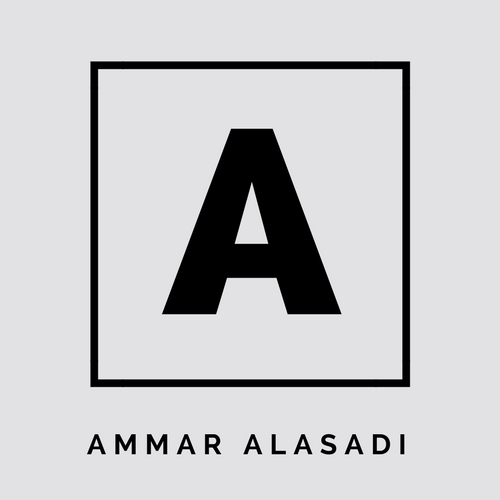
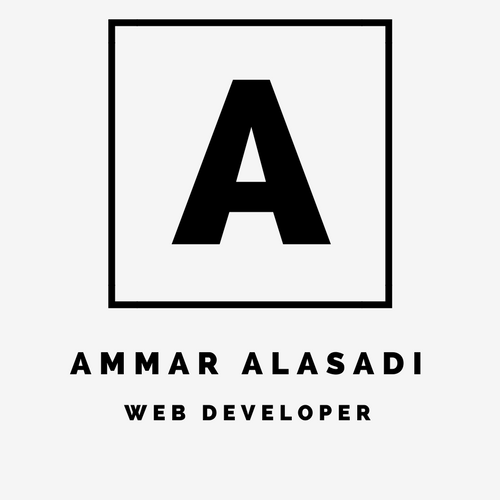
changed layout

Changed region(s): [[0.12, 0.03, 0.87, 0.78], [0.18, 0.81, 0.75, 0.93], [0.48, 0.87, 0.81, 0.93]]

diff --git a/index.html b/index.html
@@ -4,34 +4,28 @@
 <head>
 	<title>Ammar</title>
 	<link rel="stylesheet" type="text/css" href="style/style.css">
-	<link href="https://fonts.googleapis.com/css?family=Raleway" rel="stylesheet">
+	<link href="https://fonts.googleapis.com/css?family=Josefin+Slab|Open+Sans+Condensed:300|Oswald|Source+Code+Pro:300" rel="stylesheet">
 	<link rel="icon" href="ammar.png">
 </head>
 
 <body>
 	<main>
 		<header class="logo-info">
-
 			<img class='logo' src="assets/ammar.png">
-			<p class="full">Full-Stack Web Developer</p>
-
-
-
 		</header>
 
 		<hr>
 
-		<div class="about">
-			<h1 class="heading">About Me</h1>
+		<div class="about" "yellow">
+			<h1 class="heading yellow">About Me</h1>
 			<p class="sub">
 				I am a web developer with a background in languages and communication. My goal as a developer is to find creative solutions and designs. I value communication and planning to guide my progress in development. I am a team player with a love of sharing
 				experience and learning.
 			</p>
 		</div>
-
 		<div class="projects-heading">
-			<h1 class="heading">My Projects</h1>
-			<p class="sub">Check out some of my cool projects.</p>
+			<h1 class="heading yellow">My Projects</h1>
+			<p class="sub">Check out some of the cool projects I developed.</p>
 		</div>
 
 		<div class="projects">
@@ -39,20 +33,24 @@
 			<div class="project">
 				<p class="project-title">Explore & Redux
 					<a href="https://github.com/ammaralasadi1/Explore-Redux"><img class="github" src="assets/github.png" alt=""></a>
-					<br>
-					<span class="project-info">A single page application combines weather, maps, music and news headlines for an entered location. Explore & Redux is created with Redux, React, Express, NodeJs.</span>
 				</p>
+				<p class="project-info">A single page application that combines weather, maps, music and news. It offers exploration by going random to places around the world (feeling lucky button) or choosing your own destination.</p>
+				<p class="the-stack"><span class="yellow">created with:</span> Redux library - React - Axios - JSON - express.Js - Weather, Google maps, Music and news APIs</p>
+
 				<a href="http://explore-redux1.herokuapp.com/">
 					<img class="project-pictute" src="assets/project4.jpg" alt="">
 				</a>
 			</div>
 
 			<div class="project">
-				<p class="project-title">Dc Cars and Cofee
+				<p class="project-title">DC Cars and Cofee
 					<a href="https://github.com/ammaralasadi1/Dc-Cars-and-Coffee"><img class="github" src="assets/github.png" alt=""></a>
-					</br>
-					<span class="project-info">Online magazine and marketplace for classic cars. This is a full-stack web app built with Ruby on Rails, HTML and CSS.</span>
 				</p>
+				<p class="project-info">Automotive online magazine and marketplace. DC Cars and Coffee is a full stack Ruby on Rails application. You can share articles or list cars for sale within the community. It features categories, commenting and full user authentication to protect
+					users content. Full CRUD on 3 models and nested routes.</p>
+				<p class="the-stack"><span class="yellow">created with: </span> Ruby on Rails - Devise gem - PostgreSQL - HTML5 - CSS3</p>
+
+
 				<a href="https://intense-inlet-16676.herokuapp.com/">
 					<img class="project-pictute" src="assets/project2.jpg" alt="">
 				</a>
@@ -62,9 +60,11 @@
 			<div class="project">
 				<p class="project-title">Weatro
 					<a href="https://github.com/ammaralasadi1/Dc-Cars-and-Coffee"><img class="github" src="assets/github.png" alt=""></a>
-					</br>
-					<span class="project-info">A one stop application for weather and transit for DC metro. Weatro is a full-stack web app using AngularJs, Ruby on Rails, HTML and CSS.</span>
 				</p>
+				<p class="project-info">WeaTro is a single page application to get metro arrival times and weather for a selected WMATA station. This application was a group project to practice agile methodologies and Git, GitHub workflow. It features Angular.Js front end and Ruby on Rails
+					backend. Users can also rate the stations by leaving comments. </p>
+				<p class="the-stack"><span class="yellow">created with: </span> Angular.Js - Ruby on Rails - AJAX - JSON - WMATA, Underground Weather APIs - jQuery - HTML5 - CSS3</p>
+
 				<a href="http://www.erinedawson.com/weatro/#/stations">
 					<img class="project-pictute" src="assets/project3.jpg" alt="">
 				</a>
@@ -74,9 +74,10 @@
 			<div class="project">
 				<p class="project-title">Math Trivia
 					<a href="https://github.com/ammaralasadi1/Math-Trivia"><img class="github" src="assets/github.png" alt=""></a>
-					</br>
-					<span class="project-info">Simple trivia is quiz game built with the user in mind. It features simple game logic and animations Math Trivia was built with JQuery, HTML and CSS.</span>
 				</p>
+				<p class="project-info">Math Triva is quiz game built with the user in mind. It features simple game logic and animations. The user can answer questions, get hints and keep score while playing. The application saves the scores in the browser using localStorage.</p>
+				<p class="the-stack"><span class="yellow">created with: </span>javaScript - jQuery - HTMl5 - CSS3</p>
+
 				<a href="https://ammaralasadi1.github.io/Math-Trivia/">
 					<img class="project-pictute" src="assets/project1.jpg" alt="">
 				</a>
@@ -96,7 +97,7 @@
 		<hr>
 
 		<div class="talk">
-			<h1 class="heading"> Let's Talk!</h1>
+			<h1 class="heading yellow"> Let's Talk!</h1>
 			<p class="sub talk">
 				Let’s grab a coffee if you like what you see or have an idea to work on together. You can reach me below.
 			</p>
@@ -105,7 +106,7 @@
 
 			<br />
 			<a href="https://www.linkedin.com/in/ammar-alasadi-3612234a/"><img class="icon" src="assets/Linkedin.png" alt=""></a>
-			<a href="https://github.com/ammaralasadi1/Math-Trivia"><img class="icon" src="assets/github.png" alt=""></a>
+			<a href="https://github.com/ammaralasadi1"><img class="icon" src="assets/github.png" alt=""></a>
 			<a href="mailto:alasadi.ammar@gmail.com"><img class="icon2" src="assets/gmail2.png" alt=""></a>
 
 		</div>

diff --git a/style/style.css b/style/style.css
@@ -1,6 +1,6 @@
 body {
-  background-color: #E3E3E5;
-  font-family: 'Cutive Mono', monospace;
+  background-color: #F5F5F5;
+  font-family: 'Source Code Pro', monospace;
 }
 
 a {
@@ -13,25 +13,25 @@ main {
   margin: 0 auto;
 }
 
-.about {
-  margin: 50px 0px 50px 0px;
+hr {
+  margin: 20px;
 }
+
+.about {}
 
 .heading {
   font-size: 1.5em;
-  /*background-color: #95b7af;*/
   display: inline;
   padding: 5px;
   border-radius: 10px;
-  text-decoration: underline;
 }
 
 .sub {
-  width: 90%;
+  width: 100%;
   font-size: 18px;
-  line-height: 25px;
-  margin-top: 30px;
-  margin-bottom: 30px;
+  line-height: 27px;
+  margin-top: 18px;
+  margin-bottom: 30px
 }
 
 .resume {
@@ -44,11 +44,9 @@ main {
 }
 
 .logo {
-  width: 30%;
-  height: 30%;
-  margin-bottom: 0px;
-  margin: 0 auto;
-  display: block;
+  width: 40%;
+      margin: 0 auto;
+      display: block;
 }
 
 .logo-info {
@@ -56,13 +54,14 @@ main {
   flex-direction: column;
   justify-content: center;
   align-items: center;
-  font-family: 'Raleway', sans-serif;
+  padding: 20px;
 }
 
 .full {
   font-size: 25px;
   font-weight: bold;
-  margin: 0 auto;
+  margin: 20px;
+  text-transform: uppercase;
 }
 
 .projects {
@@ -76,12 +75,11 @@ main {
 }
 
 .project {
-  width: 75%;
+  width: 90%;
   display: flex;
   flex-direction: column;
-  margin: 20px;
+  margin-top: 6%;
   border-radius: 5px;
-
 }
 
 .project-pictute {
@@ -99,19 +97,22 @@ main {
 }
 
 .project-title {
-  font-size: 20px;
-  font-weight: bold;
+  font-weight: 600;
+  font-style: semi-bold 600;
+  font-size: 1.5em;
+  margin: 0px;
 }
 
 .project-info {
-  font-size: 16px;
-  font-weight: normal;
-  margin-top: 5px;
+  width: 100%;
+  font-size: 18px;
+  line-height: 27px;
+  margin: 0px;
 }
 
 footer {
   text-align: center;
-  margin: 50px 0px 30px 0px;
+  margin: 50px;
 }
 
 strong {
@@ -139,7 +140,8 @@ strong {
 }
 
 .about, .projects-heading {
-  margin-left: 50px;
+  width: 90%;
+  margin: 0 auto;
 }
 
 .talk {
@@ -157,4 +159,17 @@ strong {
   width: 45px;
   height: 45px;
   margin: 3px;
+}
+
+.the-stack {
+  width: 100%;
+  font-size: 18px;
+  line-height: 27px;
+  margin-top: 20px;
+}
+
+.yellow {
+  text-shadow: -3px 0px 3px #7AC7C4, 3px 0px 3px #7AC7C4, 6px 0px 6px #7AC7C4, -6px 0px 6px #7AC7C4;
+  font-weight: bold;
+  opacity: 0.5;
 }
